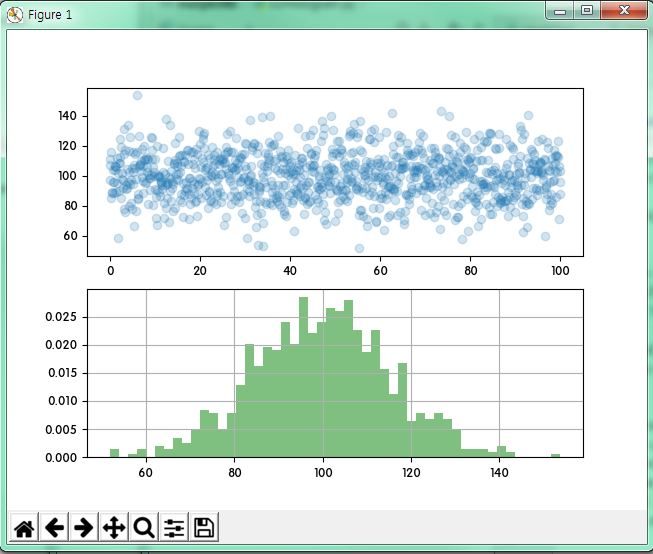
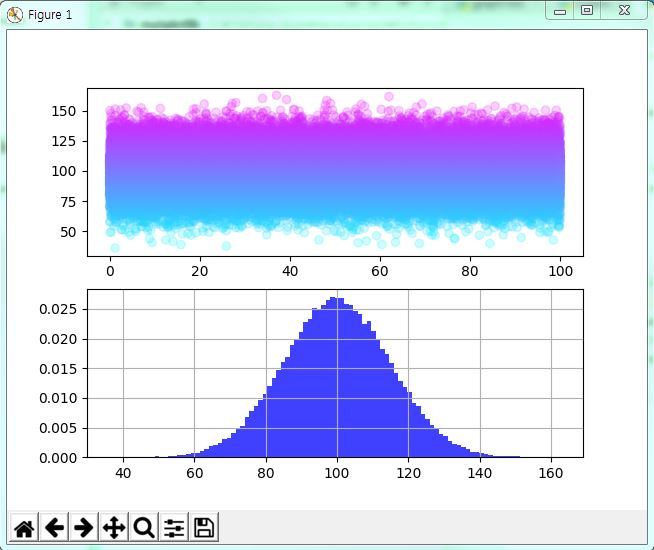
histogram2

diff --git a/matplotlib/02Histogram.py b/matplotlib/02Histogram.py
@@ -2,24 +2,19 @@ import matplotlib.pyplot as plt
 
 import numpy as np
 import matplotlib.pyplot as plt
-import matplotlib
-import matplotlib.font_manager as fm
 
-print(matplotlib.rcParams["font.family"])
+N = 100000
+x = np.linspace(0, 100, N)
+y = 100 + 15*np.random.randn(N)
+colors = y
 
-
-font_location = "c:/windows/fonts/HYKANB.ttf"
-font_name = fm.FontProperties(fname=font_location).get_name()
-matplotlib.rc('font', family=font_name)
-
-x = np.linspace(0, 100, 1000)
-y = 100 + 15*np.random.randn(1000)
 
 plt.figure(1)
 ax1 = plt.subplot(211) # 2 rows, 1 column, figure 1
-plt.scatter(x, y, alpha=0.2);
+
+plt.scatter(x, y, c=colors, cmap='cool', alpha=0.2)
 ax2 = plt.subplot(212) # 2 rows, 1 column, figure 2
-n, bins, patches = plt.hist(y, 50, normed=1, color='g', alpha=0.5)
+n, bins, patches = plt.hist(y, 100, normed=1, color='b',  alpha=0.75)
 plt.grid(True)
 print(n, bins, patches)
 
